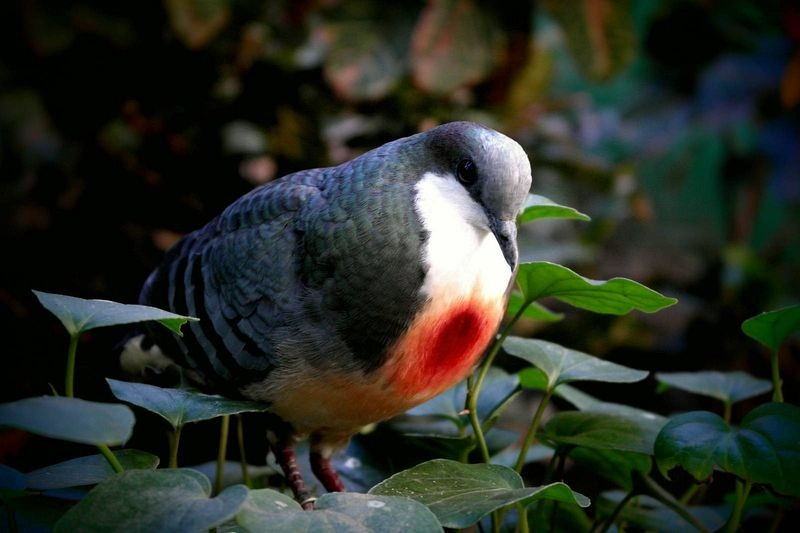
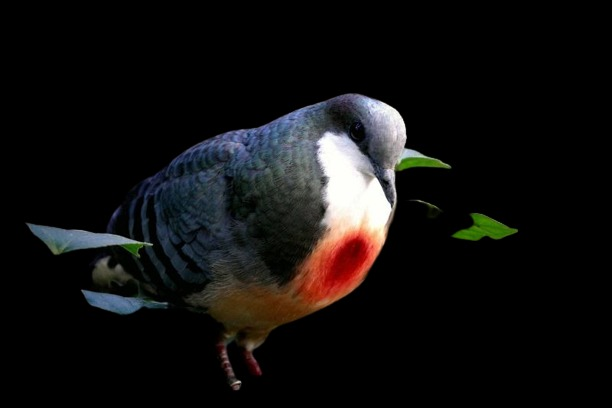
NEW ENDANGERED SPECIES

diff --git a/animals.html b/animals.html
@@ -37,10 +37,12 @@
         <img src = "images/1.jpg" alt="">
         <div class="content1">
           <h2>PHILIPPINE EAGLE</h2>
-          <p>Philippine Eagle (Pithecophaga jefferyi) also known as the monkey-eating eagle or great
+          <p>FOUND IN LUZON, LEYTE, MINDANAO, SAMAR<br>Philippine Eagle (Pithecophaga jefferyi) also known as the monkey-eating eagle or great
             Philippine eagle, is a critically endangered species of eagle of the family Accipitridae which is endemic to
             forests in the Philippines. It has brown and white-colored plumage, a shaggy crest, and generally measures
-            86 to 102 cm (2.82 to 3.35 ft) in length and weighs 4.04 to 8.0 kg (8.9 to 17.6 lb).</p>
+            86 to 102 cm (2.82 to 3.35 ft) in length and weighs 4.04 to 8.0 kg (8.9 to 17.6 lb).
+            The Philippine Eagle is like no other. With its creamy white underbellies and crown-like shaggy feathers, the critically endangered Philippine eagle surely makes a regal impression. But this one-of-a-kind eagle is now in a bad position as its population is classified as critically endangered. Now, it is among the top 10 endangered animals in the country. No more than 400 adult Philippine eagle endangered pairs remain in the wild.
+            The Philippine eagle conservation status began in the 1970s and since then, the Philippine Eagle Foundation has rescued over 80 eagles already. </p>
           <h4 style="color : red;">CRITICALLY ENDANGERED</h4>
         </div>
       </div>
@@ -48,9 +50,10 @@
         <img src = "images/tamaraw.jpg" alt="">
         <div class="content1">
           <h2>TAMARAW</h2>
-          <p>Tamaraws (Bulbalus mindorensis) also known as mindoro dwarf buffalos. They are herbivores and mostly consume
+          <p> FOUND IN MINDORO<br>Tamaraws (Bulbalus mindorensis) also known as mindoro dwarf buffalos. They are herbivores and mostly consume
             grasses, bamboo shoots and wild sugar cane. Tamaraws have been subjected to hunting for food and
-            entertainment purposes in the past, which is why they are critically endangered. </p>
+            entertainment purposes in the past, which is why they are critically endangered.
+            Another critically endangered animal that can soon be among the extinct animals in the Philippines is the Tamaraw, one of the endemic species in the Philippines. The tamaraw critically endangered species Philippines is only found in the province of Mindoro. It features shiny black hair, backward-facing horns, and a height no taller than a kindergartener but, has famous tempers and will readily wield their horns against intruders, a behavior called “tusking.” </p>
           <h4 style="color : red;">CRITICALLY ENDANGERED</h4>
         </div>
       </div>
@@ -58,9 +61,11 @@
         <img src = "images/tarsier(2).jpg" alt="">
         <div class="content1">
           <h2>TARSIER</h2>
-          <p>Tarsiers (Tarsiidae) are small nocturnal primates that follow a carnivore diet. They mostly feed on
+          <p>FOUND IN BOHOL<br>Tarsiers (Tarsiidae) are small nocturnal primates that follow a carnivore diet. They mostly feed on
             various types of insects. Tarsiers tend to shy away from human contact, and are very sensitive to bright
-            lights, physical contact and noises.</p>
+            lights, physical contact and noises. Prior to the development of the Philippine Tarsier and Wildlife Sanctuary, many people hunted for tarsiers. The captured world’s second-smallest primates were being sold, kept as pets by private individuals in environments not conducive to their lifestyle and survival, or killed.
+            Because of this, the tarsiers were declared to be specially protected faunal species of the Philippines by virtue of Proclamation No. 1030, declared by former Philippine President, Fidel V. Ramos on June 23, 1997. Hence, creating the Philippines Tarsier Sanctuary for their protection.
+            Tarsiers are very sensitive to the point that they commit suicide when stressed. If these continue to happen, Philippine tarsiers will be endangered. The key to seeing the animals without disturbing them is to book the right guide. Mejia recommends the Philippine Tarsier Foundation, which runs the Philippine Tarsier and Wildlife Sanctuary in Bohol.</p>
           <h4 style="color : yellow;">ENDANGERED</h4>
         </div>
       </div>
@@ -68,10 +73,12 @@
         <img src = "images/phillipine-croc(2).jpg" alt="">
         <div class="content1">
           <h2>PHILIPPINE CROCODILE</h2>
-          <p>Philippine crocodile (Crocodylus mindorensis) is a kind of freshwater crocodile that is
+          <p>FOUND IN NORTHERN SIERRA MADRE<br>Philippine crocodile (Crocodylus mindorensis) is a kind of freshwater crocodile that is
             relatively small. Hatchlings are white on their ventral side and have a golden-brown dorsum with transverse
             dark stripes. The brown ages and gets darker. They have a comparatively large snout and thick dorsal
-            armor compared to other crocodiles.</p>
+            armor compared to other crocodiles.
+            The Philippine crocodile is usually seen as the bad livestock and man-eating animal. But in reality, what they usually eat, especially the critically endangered Philippine crocodile are snails that help farmers by controlling introduced pest species in their rice fields.
+            This is among the rare animals in Philippines and in the world. Compared to other crocodiles, the critically endangered Philippine crocodile is smaller than usual which is around 5 feet in length and just over 30 pounds.</p>
           <h4 style="color : Red;">CRITICALLY ENDANGERED</h4>
         </div>
       </div>
@@ -79,9 +86,9 @@
         <img src = "images/walden.jpg" alt="">
         <div class="content1">
           <h2>WALDEN HORNBILL</h2>
-          <p> Walden's hornbill (Aceros waldeni) they are called as "dulungan" in local, also known as the
+          <p> FOUND IN NEGROS AND PANAY<br>Walden's hornbill (Aceros waldeni) they are called as "dulungan" in local, also known as the
             Visayan wrinkled hornbill, rufous-headed hornbill or writhed-billed hornbill is now locally extinct from the latter
-            due to severe deforestation in addition to hunting and nest poaching.</p>
+            due to severe deforestation in addition to hunting and nest poaching.  It is closely related to the writhed hornbill, but can be recognized by the yellow throat and ocular skin in the male, and the blue throat and ocular skin in the female (both throat and ocular skin are deep orange or red in both sexes of the writhed hornbill). Its binomial name commemorates the Scottish ornithologist Viscount Walden.</p>
           <h4 style="color : yellow;">ENDANGERED</h4>
         </div>
       </div>
@@ -109,23 +116,26 @@
       <input type = "radio" name = "r" id = "r10">
 
       <div class = "slide s6">
-        <img src = "images/bleeding.jpg" alt="">
+        <img src = "images/bleeding.png" alt="">
         <div class="content1">
           <h2> BLEEDING HEART PIGEON</h2>
-          <p>Bleeding heart pigeon (Gallicolumba luzonica) refers to a dark, crimson patch of feathers on
+          <p>FOUND IN LUZON PUNALA<br>Bleeding heart pigeon (Gallicolumba luzonica) refers to a dark, crimson patch of feathers on
             its breast that resembles a wound that is bleeding. Males attract females during breeding season by displaying an
-            enlarged breast to showcase their brilliant blood marking, or "heart."</p>
+            enlarged breast to showcase their brilliant blood marking, or "heart." They breed in mid-May in their natural habitat, nesting in dense shrubbery or low trees. They have an incubation period of 17 days, laying 2 eggs in a clutch. They are fed by both parents, and leave the nest after 2 weeks.
+            This shy bird can be difficult to find. They spend most of their time on the ground, except when they nest. They live in flocks and make cooing noises to stay in contact with each other while they forage for berries, seeds, and grubs to eat.</p>
           <h4 style="color : yellow;">ENDANGERED</h4>
         </div>
       </div>
       <div class = "slide">
-        <img src = "images/calamian.jpg" alt="">
+        <img src = "images/calamian.png" alt="">
         <div class="content1">
           <h2> CALAMIAN DEER</h2>
-          <p>Calamian deer (Axis calamianensis) has short legs,  short stocky legs , and slightly raised hindquarters.
+          <p>FOUND IN BUSUANGA, CALAUIT, CULION, MARILY, DIMAQUIAT ISLAND IN PALAWAN<br>Calamian deer (Axis calamianensis) has short legs,  short stocky legs , and slightly raised hindquarters.
             The underparts are paler than the rest of the body. Dark brown (nearly black in some species)
             characterizes the legs, and a dark dorsal stripe runs from the shoulders to the bushy tail's base. White lips with dark bars
-            encircling them. There is a little, whitish "bib" on the upper throat. </p>
+            encircling them. There is a little, whitish "bib" on the upper throat. Calamian and Philippine spotted deers are among the top 10 endangered species in the Philippines. The continuing decline of the Calamian deer population is attributed to hunting, human settlement, and agricultural expansion in its habitats.
+
+            As for the Philippine spotted deer, they are declining because of a limited range, habitat conversion (due to agriculture and logging), and hunting. They are used for game/trophies, some surplus meat is sold to specialty restaurants, and some are kept as pets (among politicians, IUCN notes). Find organizations that help protect these Philippine endangered species. Little actions go a long way.</p>
           <h4 style="color : yellow;">ENDANGERED</h4>
         </div>
       </div>
@@ -133,9 +143,9 @@
         <img src = "images/suluhorn.jpg" alt="">
         <div class="content1">
           <h2> SULU HORNBILL</h2>
-          <p>Sulu hornbill (Anthracoceros montani) is a type of hornbill that belongs to the Bucerotidae
+          <p>FOUND IN SULU ARCHIPELAGO<br>Sulu hornbill (Anthracoceros montani) is a type of hornbill that belongs to the Bucerotidae
             family. It is an endangered species thought to have been hunted to extinction on Jolo. Tropical damp forests
-            are its natural habitat.</p>
+            are its natural habitat. The Sulu hornbill (Anthracoceros montani) has the smallest population of any of the Critically Endangered hornbill species and must in fact be considered the rarest and most endangered hornbill in the world. Its distribution range has shrunk, its population has collapsed, and the species is in imminent danger of disappearing altogether — yet it has received no conservation attention.</p>
           <h4 style="color : yellow;">ENDANGERED</h4>
         </div>
       </div>
@@ -143,19 +153,23 @@
         <img src = "images/bat.jpg" alt="">
         <div class="content1">
           <h2> PALAWAN FRUIT BAT</h2>
-          <p>Palawan Fruit bat (Acerodon leucotis) are herbivores and mostly consume leaves, fruits, flowers, sap, and twigs. Like most
-            bats they are nocturnal.</p>
+          <p>FOUND IN PALAWAN, BASABAC AND BUSUANGA<br>Palawan Fruit bat (Acerodon leucotis) are herbivores and mostly consume leaves, fruits, flowers, sap, and twigs. Like most
+            bats they are nocturnal. The Palawan fruit bats have a head-and-body length of 22–25 cm (8.7–9.8 in), with a forearm length of 13–16.5 cm (5.1–6.5 in). They lack a tail. The fur and wings are brown; the latter sometimes mottled with paler splotches.
+            This species has been listed on Appendix II of CITES since 1990 and is considered vulnerable by the IUCN. The major threats are hunting and habitat loss. It is expected that much of its remaining forest habitat will be converted into plantations in the future. Since it does not form large colonies and roosting sites are inconspicuous, it has proven hard to find appropriate survey methods for precisely determining its status, but it is believed to have declined by more than 30% over the last 15 years.</p>
           <h4 style="color : yellow;">ENDANGERED</h4>
         </div>
       </div>
       <div class = "slide">
-        <img src = "images/brownDove.jfif" alt="">
+        <img src = "images/brownDove.png" alt="">
         <div class="content1">
           <h2>TAWI-TAWI DOVE</h2>
-          <p>  Tawitawi brown dove (Phapitreron cinereiceps) is an endangered species of bird in the Columbidae family
+          <p>  FOUND IN FOREST OF SULU<br>Tawitawi brown dove (Phapitreron cinereiceps) is an endangered species of bird in the Columbidae family
             distinguished by its orange-peach breast. It most likely has a very small population and has had a very quick population drop
             due to a reduction in the size of its forest habitat, which is currently only found in a few small, remnant portions spread
-            across a very short area. As a result, it is listed as endangered.</p>
+            across a very short area. As a result, it is listed as endangered.
+            Its natural habitats are tropical moist lowland secondary forests and forest edge with it being less common in primary forest. It being more common in these areas shows that it is tolerant of degraded forests.
+            This species' main threat is habitat loss with wholesale clearance of forest habitats as a result of legal and illegal logging, mining and conversion into farmlands through Slash-and-burn and urbanization.
+           </p>
           <h4 style="color : yellow;">ENDANGERED</h4>
         </div>
       </div>
@@ -166,6 +180,77 @@
       <label for  = "r8" class = "bar"> </label>
       <label for  = "r9" class = "bar"> </label>
       <label for  = "r10" class = "bar"> </label>
+    </div>
+  </div>
+</div>
+<div class="tht1" style="background-image: url(images/black.jpg)">
+
+  <div class = "bg-slider">
+    <div class = "slides">
+      <input type = "radio" name = "r" id = "r11">
+      <input type = "radio" name = "r" id = "r12">
+      <input type = "radio" name = "r" id = "r13">
+      <input type = "radio" name = "r" id = "r14">
+      <input type = "radio" name = "r" id = "r15">
+
+      <div class = "slide s11">
+        <img src = "images/Turtle.jpg" alt="">
+        <div class="content1">
+          <h2>SEA TURTLE</h2>
+          <p>FOUND ACROSS THE PHILIPPINES<br>Five of seven sea turtle species are found in the Philippines; all of them are threatened and belong to the classified endangered animals in the Philippines.
+            For the green turtle, the main cause of its population decline is the overexploitation of eggs and adult females in nesting beaches, and for juveniles and males, in foraging areas; and pollution of marine habitats.
+            While for the leatherback turtle, its population is most affected by incidental capture in fisheries, followed by human consumption and coastal development. The loggerhead is affected by the same causes, as well as coastal development, pollution, and climate change.
+            And as for the Olive Ridley which is the most abundant sea turtle, its decline in population is affected by the impacts of egg harvest, direct take of adults, bycatch, habitat degradation (including that caused by climate change), and diseases such as fibropapilloma.</p>
+          <h4 style="color : yellow;">ENDANGERED </h4><h5 style="color : red;">CRITICALLY ENDANGERED </h5>
+        </div>
+      </div>
+      <div class = "slide">
+        <img src = "images/Tawilis.jpg" alt="">
+        <div class="content1">
+          <h2> TAWILIS</h2>
+          <p>FOUND IN TAAL LAKE<br>Bombon sardine, also known as Tawilis, is among the rare animals in Philippines that is now among the list of top 10 endangered animals in the country. Tawilis is the only freshwater sardine species in the world, endemic to Taal Lake. Because of overfishing, illegal fishing, the proliferation of fish cages, and deteriorating water quality, its population declined. </p>
+          <h4 style="color : yellow;">ENDANGERED</h4>
+        </div>
+      </div>
+      <div class = "slide">
+        <img src = "images/Pig.jpg" alt="">
+        <div class="content1">
+          <h2> WILD PIG</h2>
+          <p>FOUND ACROSS THE PHILIPPINES<br>
+            Visayan warty pig, Philippine warty pig, Oliver's warty pig/Mindoro warty pig and Palawan bearded pig. Known locally as baboy damo,
+            the four wild pig species above are endemic to the Philippines
+            and are classified as near threatened, vulnerable, and critically endangered species in the Philippines. The reason is, wild pigs are locally hunted for food. Let us do our part and help in protecting these wild animals in the Philippines.</p>
+          <h4 style="color : yellow;">ENDANGERED</h4><h5 style="color : red;">CRITICALLY ENDANGERED </h5>
+        </div>
+      </div>
+      <div class = "slide">
+        <img src = "images/MouseDeer.jpg" alt="">
+        <div class="content1">
+          <h2>PILANDOK</h2>
+          <p>FOUND IN BALABAC, BUGSUK, RAMOS, APULIT, AND CALAUIT ISLANDS IN PALAWAN<br>Another endangered species in the Philippines is the Balabac mouse deer, also known as pilandok. This rare species may only be found in Palawan, specifically in the towns of Balabac, Bugsuk, Ramos, Apulit, and Calauit islands. The reason for its decline is that pilandoks are poached for food, displaced from its habitat (due to conversion to agriculture), and sometimes subject to trade in living animals.
+            If we don’t protect this enough, the pilandok may soon be in the list of extinct animals in the Philippines.</p>
+          <h4 style="color : yellow;">ENDANGERED</h4>
+        </div>
+      </div>
+      <div class = "slide">
+        <img src = "images/ForestTurtle.jpg" alt="">
+        <div class="content1">
+          <h2>PHILIPPINE FOREST TURTLE</h2>
+          <p>FOUND IN PALAWAN<br>The Philippine Forest Turtle is among the critically endangered species in the Philippines, and among the 25 most endangered turtle species in the world.
+
+            According to the Turtle Conservancy, a non-profit organization, for over 80 years, its true geographic distribution in the Philippines remained a mystery until a chance discovery of one specimen in a Palawan market in the late 1980s, and finally the rediscovery of wild populations in 2004.
+
+            However, this rediscovery resulted in a negative effect because many hunted for the Philippine Forest Turtle for illegal wildlife trade for pets and food that is why isa na ito sa mga endangered na hayop sa Pilipinas.</p>
+          <h4 style="color : red;">CRITICALLY ENDANGERED</h4>
+        </div>
+      </div>
+    </div>
+    <div class = "bg-navigation">
+      <label for  = "r11" class = "bar"> </label>
+      <label for  = "r12" class = "bar"> </label>
+      <label for  = "r13" class = "bar"> </label>
+      <label for  = "r14" class = "bar"> </label>
+      <label for  = "r15" class = "bar"> </label>
     </div>
   </div>
 </div>

diff --git a/style.css b/style.css
@@ -207,6 +207,10 @@ footer ul i{
   bottom: 49%;
   opacity: 1;
 }
+.content1:hover h5{
+  bottom: 49%;
+  opacity: 1;
+}
 .content1:hover p{
   bottom: 49%;
   opacity: 1;
@@ -231,7 +235,18 @@ footer ul i{
   font-size: 25px;
   bottom: 0;
   left: 20%;
-  transform: translate(-20%,200%);
+  transform: translate(-20%,280%);
+  position: absolute;
+  opacity: 0;
+  transition: 0.5s;
+  text-align: left;
+}
+.content1 h5{
+  width: 60%;
+  font-size: 25px;
+  bottom: 0;
+  left: 20%;
+  transform: translate(5%,280%);
   position: absolute;
   opacity: 0;
   transition: 0.5s;
@@ -598,7 +613,19 @@ nav .fa{
 }
 
 /* --Who are we?-- */
-
+.tht1{
+  width: 100%;
+  margin: auto;
+  padding-top: 625px;
+  text-align: center;
+  font-family: 'Roboto-Reg';
+  font-size: 20px;
+  color: #bc8f57;
+  background-image: linear-gradient(rgba(4,9,30,0.7), rgba(4,9,30,0.7)),url(images/banner-img.png);
+  background-position: center;
+  background-size: cover;
+  background-attachment: fixed;
+}
 .tht{
   width: 100%;
   margin: auto;
@@ -795,7 +822,7 @@ nav .fa{
   position: absolute;
   bottom: 20px;
   left: 50%;
-  transform: translate(100%,-2100%);
+  transform: translate(100%,-1950%);
   display: flex;
 }
 .bar {
@@ -858,9 +885,27 @@ input[name = "r"]{
 }#r10:checked ~ .s6{
    margin-left: -80%;
  }
+#r11:checked ~ .s11{
+  margin-left: -0%;
+}
+#r12:checked ~ .s11{
+  margin-left: -20%;
+}
 
- 
- @media screen and (max-width: 700px){
+#r13:checked ~ .s11{
+  margin-left: -40%;
+}
+
+#r14:checked ~ .s11{
+  margin-left: -60%;
+}
+
+#r15:checked ~ .s11{
+  margin-left: -80%;
+}
+
+
+@media screen and (max-width: 700px){
   /* Know More Media */
   .tht{
     width: 100%;
